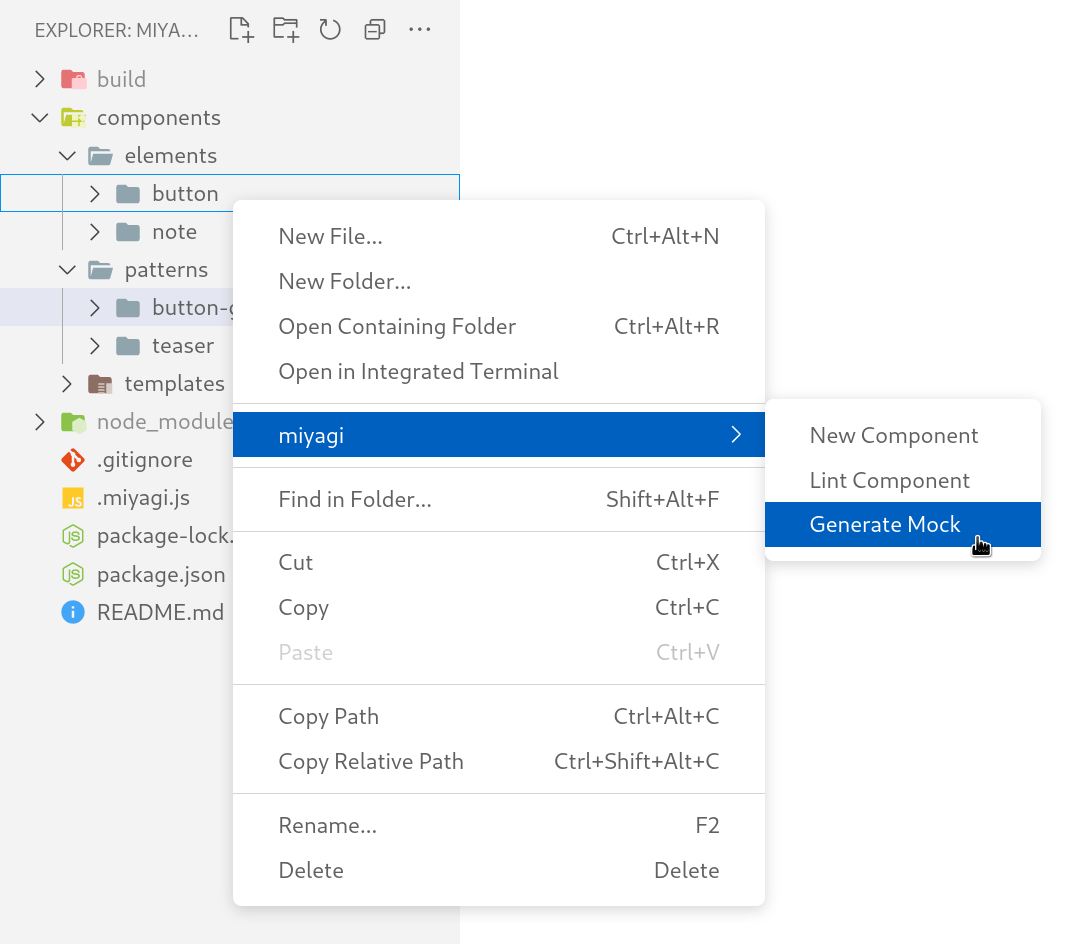
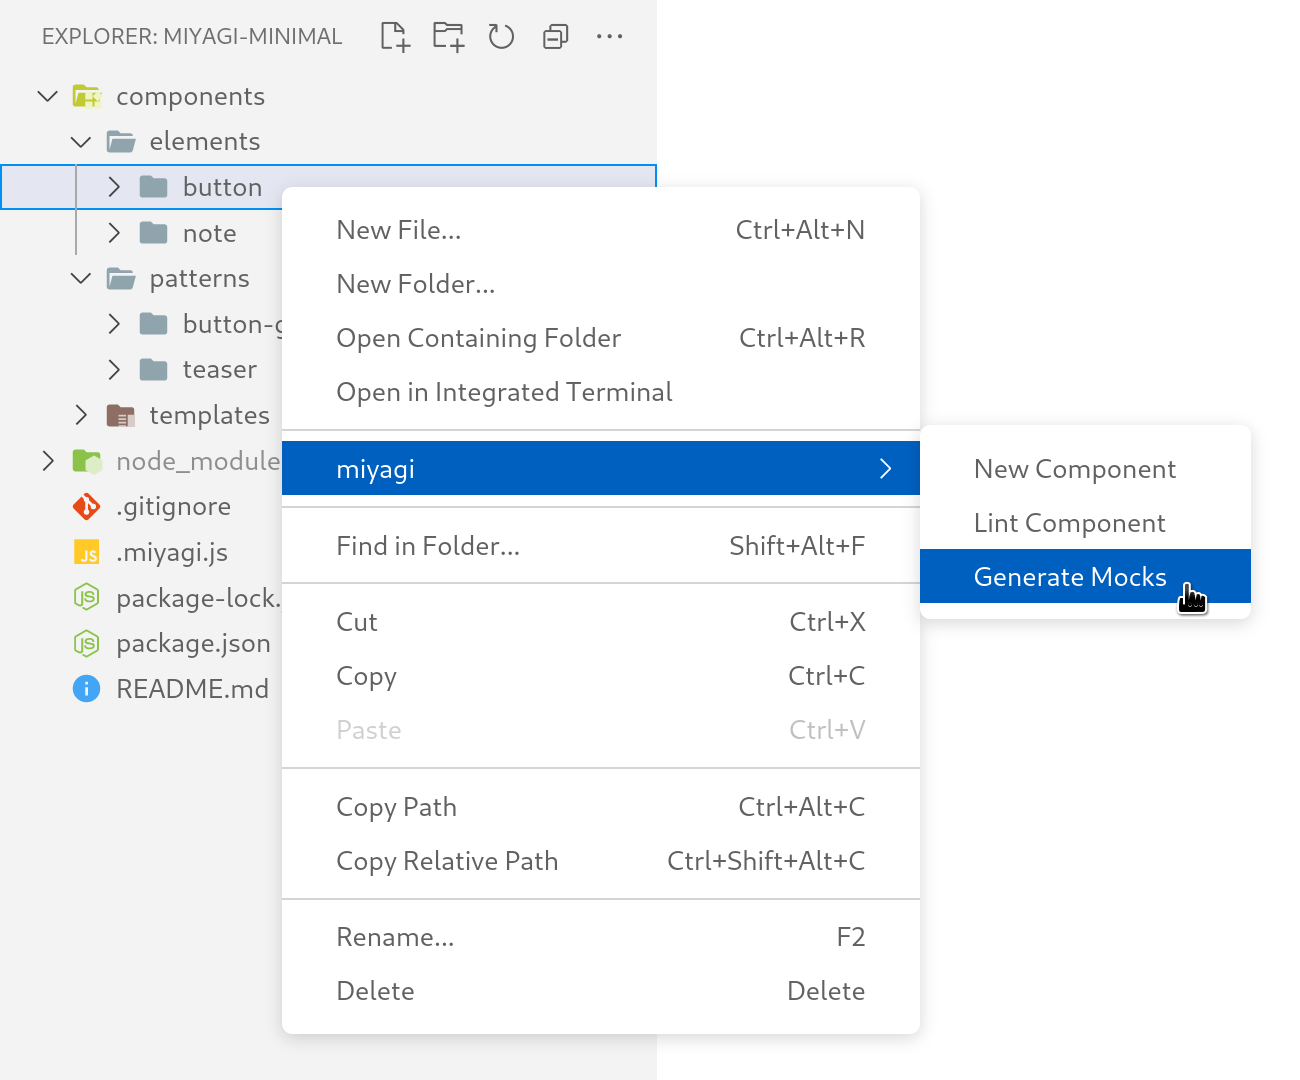
docs: Update command screenshots

diff --git a/README.md b/README.md
@@ -18,19 +18,19 @@ Please refer to the [miyagi docs](https://www.miyagi.dev/) for setting up and co
 
 Create new components by right-clicking on any folder inside your components folder and selecting “miyagi ➝ New Component”.
 
-<img src="images/command-new-component.webp" alt="VS Code explorer context menu with the “New Component” entry highlighted." width="540">
+<img src="images/command-new-component.webp" alt="VS Code explorer context menu with the “New Component” entry highlighted." width="650">
 
 ## Lint components
 
 Lint components by right-clicking any component folder and selecting “miyagi ➝ Lint Component”.
 
-<img src="images/command-lint-component.webp" alt="VS Code explorer context menu with the “Lint Component” entry highlighted." width="540">
+<img src="images/command-lint-component.webp" alt="VS Code explorer context menu with the “Lint Component” entry highlighted." width="650">
 
 ## Generate mocks
 
 Create automatic dummy mock data by right-clicking any component folder and selecting “miyagi ➝ Generate Mocks”.
 
-<img src="images/command-generate-mocks.webp" alt="VS Code explorer context menu with the Generate Mocks” entry highlighted." width="540">
+<img src="images/command-generate-mocks.webp" alt="VS Code explorer context menu with the Generate Mocks” entry highlighted." width="650">
 
 ## File links
 
